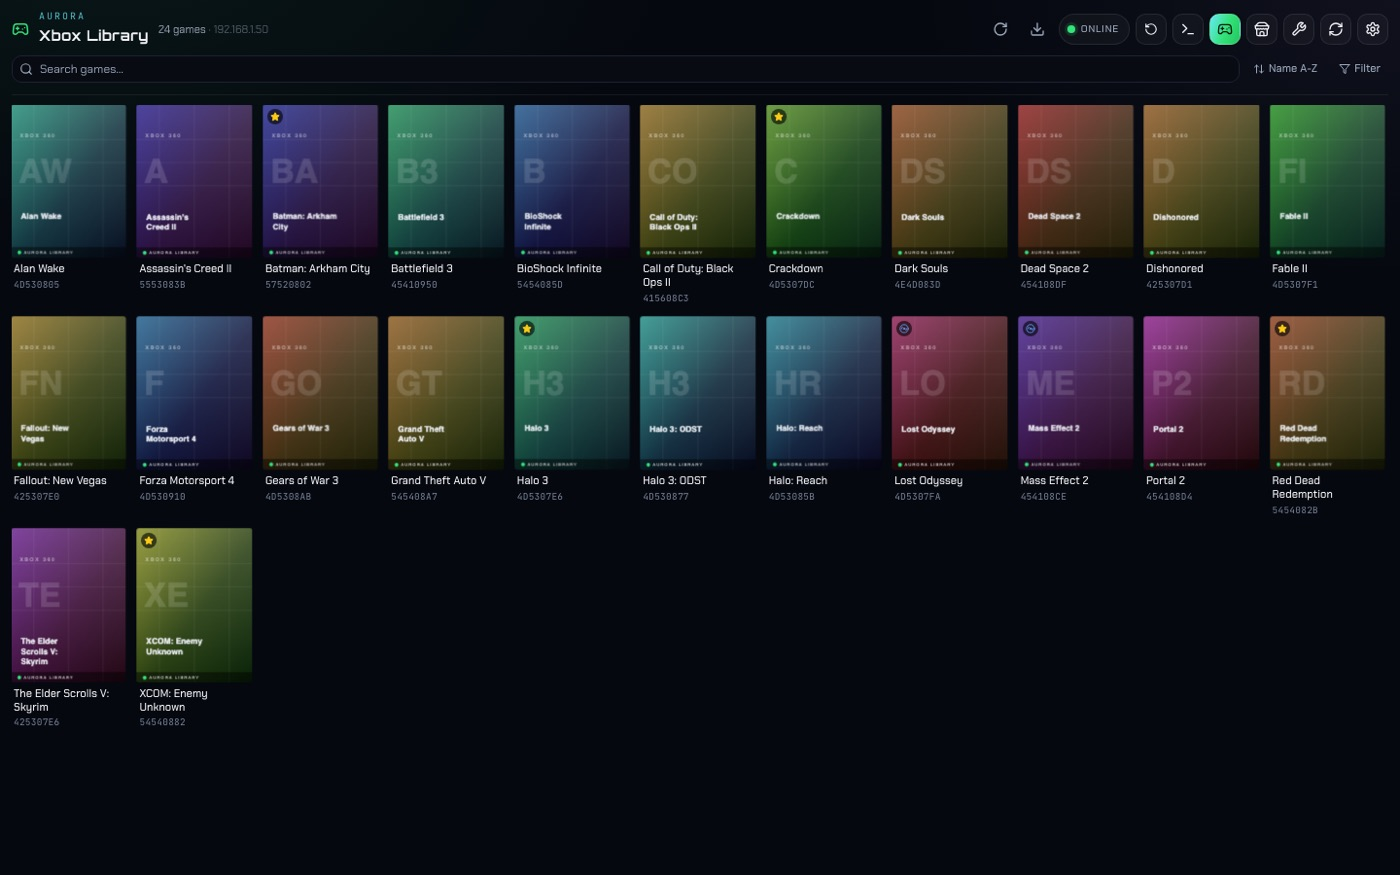
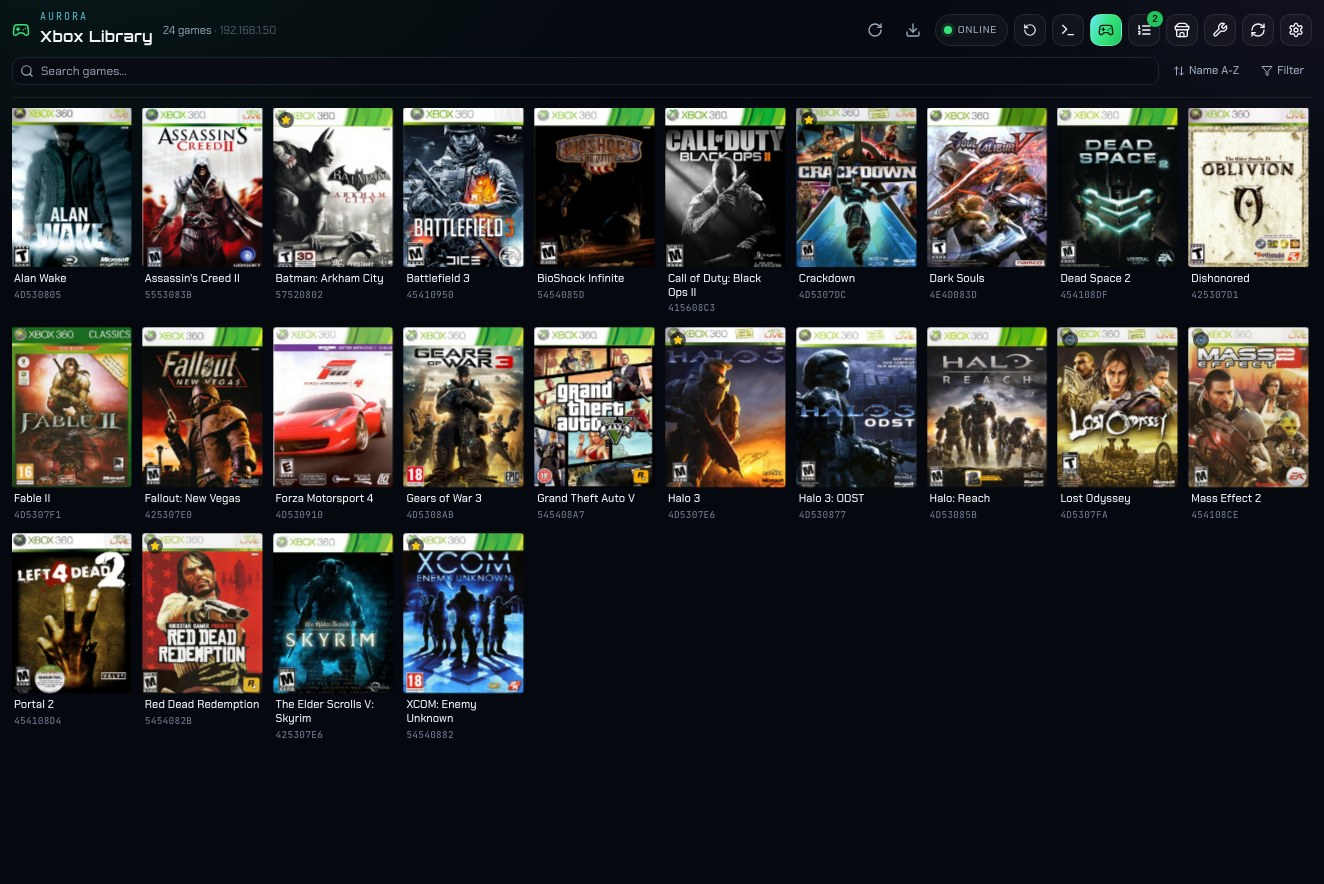
Real box art in the library videos and screenshots, README video points at the new recording, 11 guides

diff --git a/docs/video-guides.html b/docs/video-guides.html
@@ -32,10 +32,16 @@
       <p class="sum">See what is on the console.</p>
       <div class="grid">
         <article id="01-xbox-library" class="card">
-          <video controls preload="none" playsinline poster="https://covers.debrid.in/guides/godsend360/01-xbox-library.6f7fe5d7.jpg" aria-label="Xbox Library"><source src="https://covers.debrid.in/guides/godsend360/01-xbox-library.6f7fe5d7.mp4" type="video/mp4"></video>
+          <video controls preload="none" playsinline poster="https://covers.debrid.in/guides/godsend360/01-xbox-library.21ab0766.jpg" aria-label="Xbox Library"><source src="https://covers.debrid.in/guides/godsend360/01-xbox-library.21ab0766.mp4" type="video/mp4"></video>
           <h3>Xbox Library</h3>
-          <p>Every game found on your Xbox through Aurora, with cover art and title ID. Search, sort, filter, refresh from the console and fetch missing covers.</p>
-          <ol><li>Open Xbox Library</li><li>Search or sort the list</li><li>Refresh the library cache</li><li>Download missing covers</li></ol>
+          <p>Every game found on your Xbox through Aurora, as real box art you can flip: hover a cover and the case turns in 3D. Search, sort, filter, refresh from the console and fetch missing covers.</p>
+          <ol><li>Open Xbox Library</li><li>Hover a cover to flip the case</li><li>Search or sort the list</li><li>Refresh the library cache</li><li>Download missing covers</li></ol>
+        </article>
+        <article id="06-game-page" class="card">
+          <video controls preload="none" playsinline poster="https://covers.debrid.in/guides/godsend360/06-game-page.aceb3cbb.jpg" aria-label="The game page"><source src="https://covers.debrid.in/guides/godsend360/06-game-page.aceb3cbb.mp4" type="video/mp4"></video>
+          <h3>The game page</h3>
+          <p>Click a cover to open its page: publisher, developer and release date, the Aurora library entry, the Aurora assets (background, banner, icon, cover and screenshots, searched online or loaded from a file), DLC and title updates, and save games.</p>
+          <ol><li>Click a cover</li><li>Open Aurora assets</li><li>Find DLC and title updates</li><li>Manage save games</li></ol>
         </article>
       </div>
     </section>
@@ -44,16 +50,46 @@
       <p class="sum">Find a game and send it to the console.</p>
       <div class="grid">
         <article id="02-browse-and-download" class="card">
-          <video controls preload="none" playsinline poster="https://covers.debrid.in/guides/godsend360/02-browse-and-download.7bf0ab56.jpg" aria-label="Browse and Download"><source src="https://covers.debrid.in/guides/godsend360/02-browse-and-download.7bf0ab56.mp4" type="video/mp4"></video>
+          <video controls preload="none" playsinline poster="https://covers.debrid.in/guides/godsend360/02-browse-and-download.813114a0.jpg" aria-label="Browse and Download"><source src="https://covers.debrid.in/guides/godsend360/02-browse-and-download.813114a0.mp4" type="video/mp4"></video>
           <h3>Browse and Download</h3>
           <p>One list over four sources: Minerva Archive over BitTorrent, Internet Archive, your own Transfer folder and dlxbgame releases. Filter by title and switch between Xbox 360, Original Xbox, XBLA, Digital, DLC and Indie.</p>
           <ol><li>Pick a source</li><li>Pick a category</li><li>Filter the list by title</li></ol>
         </article>
         <article id="03-toolbox" class="card">
-          <video controls preload="none" playsinline poster="https://covers.debrid.in/guides/godsend360/03-toolbox.39751bab.jpg" aria-label="Toolbox"><source src="https://covers.debrid.in/guides/godsend360/03-toolbox.39751bab.mp4" type="video/mp4"></video>
+          <video controls preload="none" playsinline poster="https://covers.debrid.in/guides/godsend360/03-toolbox.f2f74ccc.jpg" aria-label="Toolbox"><source src="https://covers.debrid.in/guides/godsend360/03-toolbox.f2f74ccc.mp4" type="video/mp4"></video>
           <h3>Toolbox</h3>
           <p>Convert and move files: ISO to GOD, ISO to XEX, BadAvatar USB and an FTP manager for the console.</p>
           <ol><li>Open Toolbox</li><li>Choose a tool</li></ol>
+        </article>
+        <article id="07-iso-to-god" class="card">
+          <video controls preload="none" playsinline poster="https://covers.debrid.in/guides/godsend360/07-iso-to-god.2dc25c3f.jpg" aria-label="ISO to GOD"><source src="https://covers.debrid.in/guides/godsend360/07-iso-to-god.2dc25c3f.mp4" type="video/mp4"></video>
+          <h3>ISO to GOD</h3>
+          <p>Convert Xbox 360 disc images to the Games on Demand format Aurora installs. Add ISOs, choose an output folder and convert; output is named Title Name - TitleID.</p>
+          <ol><li>Add ISOs</li><li>Choose the output folder</li><li>Convert</li></ol>
+        </article>
+        <article id="08-iso-to-xex" class="card">
+          <video controls preload="none" playsinline poster="https://covers.debrid.in/guides/godsend360/08-iso-to-xex.9f953dc6.jpg" aria-label="ISO to XEX"><source src="https://covers.debrid.in/guides/godsend360/08-iso-to-xex.9f953dc6.mp4" type="video/mp4"></video>
+          <h3>ISO to XEX</h3>
+          <p>Extract a disc image to a folder with a default.xex so the game runs straight from that folder.</p>
+          <ol><li>Add the image</li><li>Pick an output folder</li><li>Convert</li></ol>
+        </article>
+        <article id="09-badavatar-usb" class="card">
+          <video controls preload="none" playsinline poster="https://covers.debrid.in/guides/godsend360/09-badavatar-usb.fc98f643.jpg" aria-label="BadAvatar USB"><source src="https://covers.debrid.in/guides/godsend360/09-badavatar-usb.fc98f643.mp4" type="video/mp4"></video>
+          <h3>BadAvatar USB</h3>
+          <p>Prepare a USB stick for the BadUpdate exploit: pick the drive, format it to FAT32, and add optional packages such as Proto, FreestyleDash and the Aurora XeUnshackle build.</p>
+          <ol><li>Pick the USB drive</li><li>Set the options</li><li>Choose packages</li><li>Create the stick</li></ol>
+        </article>
+        <article id="10-ftp-manager" class="card">
+          <video controls preload="none" playsinline poster="https://covers.debrid.in/guides/godsend360/10-ftp-manager.30fbaed1.jpg" aria-label="FTP Manager"><source src="https://covers.debrid.in/guides/godsend360/10-ftp-manager.30fbaed1.mp4" type="video/mp4"></video>
+          <h3>FTP Manager</h3>
+          <p>Browse the console drive over FTP: upload files or folders, make folders, cut, copy and paste, with transfer progress on the right.</p>
+          <ol><li>Open FTP Manager</li><li>Browse folders</li><li>Upload files</li><li>Watch Transfers</li></ol>
+        </article>
+        <article id="11-job-queue" class="card">
+          <video controls preload="none" playsinline poster="https://covers.debrid.in/guides/godsend360/11-job-queue.70f88377.jpg" aria-label="Job Queue"><source src="https://covers.debrid.in/guides/godsend360/11-job-queue.70f88377.mp4" type="video/mp4"></video>
+          <h3>Job Queue</h3>
+          <p>Every download, conversion and FTP transfer in one list, with live status, progress and speed, and a cancel button for each job.</p>
+          <ol><li>Open the queue</li><li>Read status and speed</li><li>Cancel a job</li></ol>
         </article>
       </div>
     </section>
@@ -62,13 +98,13 @@
       <p class="sum">Logs and settings.</p>
       <div class="grid">
         <article id="04-console" class="card">
-          <video controls preload="none" playsinline poster="https://covers.debrid.in/guides/godsend360/04-console.8b94d97a.jpg" aria-label="Console"><source src="https://covers.debrid.in/guides/godsend360/04-console.8b94d97a.mp4" type="video/mp4"></video>
+          <video controls preload="none" playsinline poster="https://covers.debrid.in/guides/godsend360/04-console.daa4c9ce.jpg" aria-label="Console"><source src="https://covers.debrid.in/guides/godsend360/04-console.daa4c9ce.mp4" type="video/mp4"></video>
           <h3>Console</h3>
           <p>The live terminal of the backend. Downloads, conversions and FTP transfers log here, and you can open the logs folder to share a log.</p>
           <ol><li>Open Console</li><li>Press Open logs folder</li></ol>
         </article>
         <article id="05-settings" class="card">
-          <video controls preload="none" playsinline poster="https://covers.debrid.in/guides/godsend360/05-settings.d70a08c8.jpg" aria-label="Settings"><source src="https://covers.debrid.in/guides/godsend360/05-settings.d70a08c8.mp4" type="video/mp4"></video>
+          <video controls preload="none" playsinline poster="https://covers.debrid.in/guides/godsend360/05-settings.9f73764f.jpg" aria-label="Settings"><source src="https://covers.debrid.in/guides/godsend360/05-settings.9f73764f.mp4" type="video/mp4"></video>
           <h3>Settings</h3>
           <p>Choose folders, set the Xbox FTP connection, send the Aurora script to the console, export Aurora databases and refresh the dlxbgame list and caches.</p>
           <ol><li>Set folders</li><li>Save the Xbox connection</li><li>Send Aurora scripts</li><li>Refresh caches</li></ol>

diff --git a/src/electron-app/renderer/mock.ts b/src/electron-app/renderer/mock.ts
@@ -278,7 +278,8 @@ const handlers: Record<string, Handler> = {
         emit("cover", {
           titleId: entry.titleId,
           gameDataDir: entry.gameDataDir,
-          src: coverArt(game?.name || entry.titleId, game?.__tone ?? 150),
+          // `window.__realCovers` (titleId -> image URL) is injected by the demo-reels recorder so videos show real box art.
+          src: (window as any).__realCovers?.[entry.titleId] || coverArt(game?.name || entry.titleId, game?.__tone ?? 150),
           dataUrl: null,
         });
       }, 40 + i * 25);

diff --git a/readme.md b/readme.md
@@ -16,11 +16,11 @@ Download priority for online libraries: **Local Transfer folder → Minerva Arch
 
 **dlxbgame.com** is an additional, separate source for Xbox 360 **ISOs** and **Jtag/RGH** releases. The app scrapes the whole site once, stores every release's download links and archive password in `cache/dlxb_games.json`, and ships that list with each build. Downloads are resolved from the host the site links to (1fichier, MediaFire, Google Drive, gofile, and others) and fetched with `aria2c`; ads and container pages are followed until the file link appears. Links are checked after each scrape, dead ones are skipped, and titles whose links are all dead are hidden, so the app never offers a download that cannot start. Filecrypt containers expand through Real-Debrid or TorBox. Cloudflare-protected ad gates are cleared by a FlareSolverr-compatible solver bundled with every desktop build (official on Linux/Windows x64, source-built for macOS arm64/x64, workflow-built for Linux arm64), with a LAN solver URL as an override. Rotating SOCKS5/HTTP proxies and Tor exits (`GODSEND_SCRAPE_PROXIES`, `GODSEND_TOR_CONTROL`) are available for rate limits. GODsend 360 is **not affiliated with dlxbgame.com** - please visit [dlxbgame.com](https://dlxbgame.com/) directly to support the original owners of the content you download.
 
-[![GODsend 360 v2.9.2 overview video preview](docs/site/assets/GODsend-360-2.9.2-preview.png)](docs/site/assets/GODsend-360-2.9.2.mov)
+[![GODsend 360 Xbox Library: real box art that flips in 3D on hover](docs/site/assets/GODsend-360-preview.png)](https://covers.debrid.in/guides/godsend360/01-xbox-library.21ab0766.mp4)
 
-[Download or play the overview video (`.mov`)](docs/site/assets/GODsend-360-2.9.2.mov)
+[Play the Xbox Library video](https://covers.debrid.in/guides/godsend360/01-xbox-library.21ab0766.mp4) - real box art, flipped in 3D on hover.
 
-[Watch the video guides](https://ghostyshell.github.io/GODSend-360/video-guides.html) - one short recording per feature.
+[Watch the video guides](https://ghostyshell.github.io/GODSend-360/video-guides.html) - eleven short recordings, one per feature.
 
 ---
 

diff --git a/CHANGELOG.md b/CHANGELOG.md
@@ -10,7 +10,7 @@ Versioning follows [Semantic Versioning](https://semver.org/spec/v2.0.0.html).
 ## [Unreleased]
 
 ### Added
-- Video guides: `docs/video-guides.html` lists five short recordings (library, browse and download, toolbox, console, settings) with a walkthrough and steps each. Videos are on R2; the page is linked from the site nav, the sitemap and the README. Recorded from the renderer's `?mock=1` bridge with the demo-reels skill.
+- Video guides: `docs/video-guides.html` lists eleven short recordings (library with flipping box art, game page, browse and download, toolbox, ISO to GOD, ISO to XEX, BadAvatar USB, FTP manager, job queue, console, settings) with a walkthrough and steps each. Videos are on R2; the page is linked from the site nav, the sitemap and the README. Recorded from the renderer's `?mock=1` bridge with the demo-reels skill; the dev-only mock now reads `window.__realCovers` so the recordings and the README screenshots show real box art instead of placeholder tiles. The README preview and `08-xbox-library` screenshots were regenerated, and the README video link now points at the new Xbox Library recording.
 
 ### Fixed
 - `robots.txt` and `sitemap.xml` lived under `/site/`, but Google fetches `/robots.txt` at the site root, so the robots file was dead and nothing linked the sitemap. Both moved to the root and the sitemap link updated.
